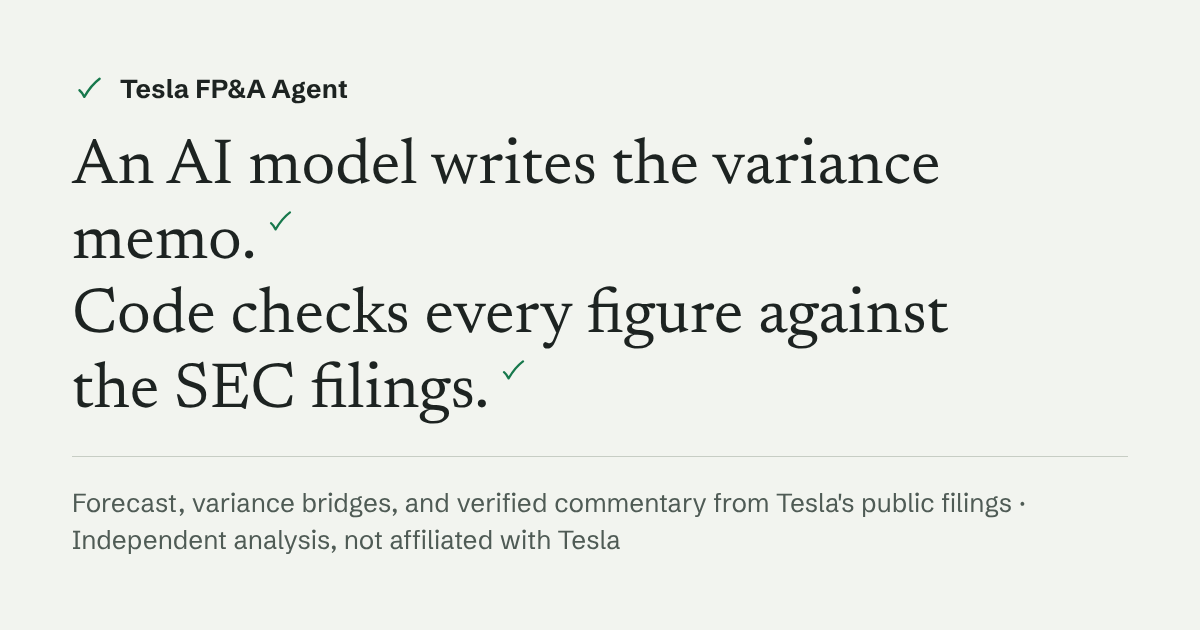
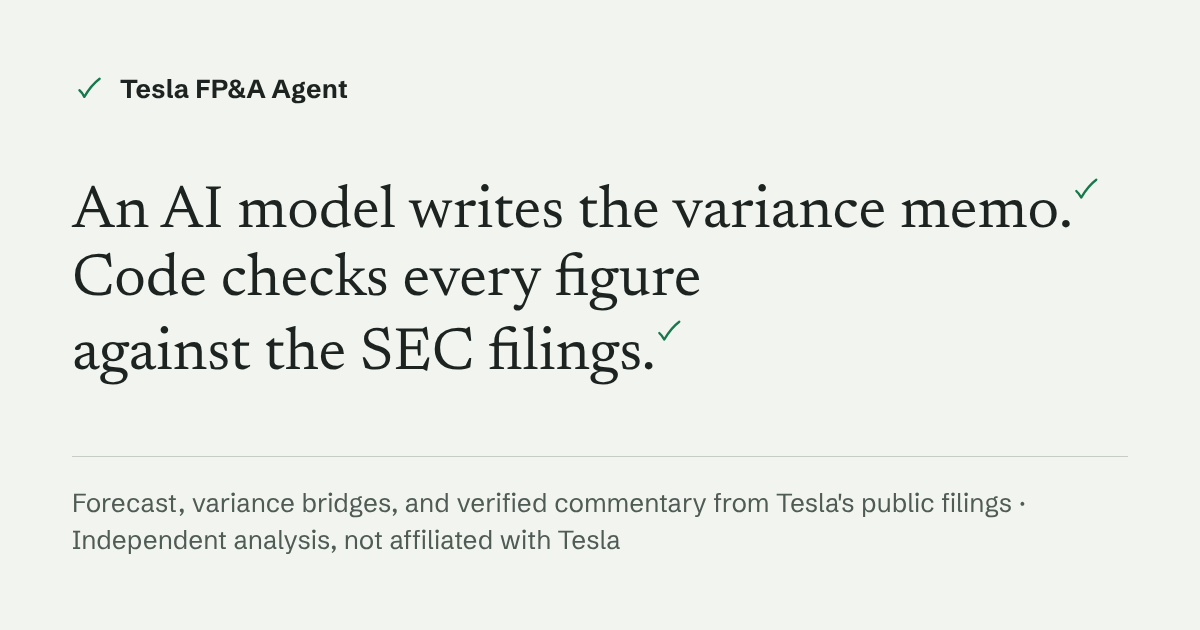
M7-T3: tighter card layout and accurate alt text
Claude-Session: https://claude.ai/code/session_01MPaYzZcF66N4BNMfTHPq9Q

Changed region(s): [[0.0617, 0.2111, 0.8942, 0.6937]]

diff --git a/site/index.html b/site/index.html
@@ -19,7 +19,7 @@
     <meta property="og:image:height" content="630" />
     <meta
       property="og:image:alt"
-      content="Light background. Large serif text reads: An AI model writes the variance memo, with a green check mark after memo. Code checks every figure against the SEC filings, with a green check mark after filings. Small caption: Tesla FP&A Agent."
+      content="Tesla FP&A Agent. Large serif text: An AI model writes the variance memo. Code checks every figure against the SEC filings. A green tick follows each sentence. Below: forecast, variance bridges, and verified commentary from Tesla's public filings; independent analysis, not affiliated with Tesla."
     />
     <meta name="twitter:card" content="summary_large_image" />
     <meta name="twitter:title" content="Tesla FP&A Agent" />
@@ -28,7 +28,7 @@
       content="An AI model writes the variance memo; code checks every figure against Tesla's SEC filings. Independent analysis, not affiliated with Tesla, Inc."
     />
     <meta name="twitter:image" content="https://kambourr.github.io/tesla-fpa-agent/og-image.png" />
-    <meta name="twitter:image:alt" content="Light background. Large serif text reads: An AI model writes the variance memo, with a green check mark after memo. Code checks every figure against the SEC filings, with a green check mark after filings. Small caption: Tesla FP&A Agent." />
+    <meta name="twitter:image:alt" content="Tesla FP&A Agent. Large serif text: An AI model writes the variance memo. Code checks every figure against the SEC filings. A green tick follows each sentence. Below: forecast, variance bridges, and verified commentary from Tesla's public filings; independent analysis, not affiliated with Tesla." />
     <title>Tesla FP&A Agent</title>
     <link rel="icon" type="image/svg+xml" href="%BASE_URL%favicon.svg" />
     <script>

diff --git a/site/og/og-image.html b/site/og/og-image.html
@@ -83,24 +83,24 @@
 
       .hero {
         margin: 0;
-        max-width: 900px;
         font-family: "Newsreader", Georgia, "Times New Roman", serif;
         font-weight: 400;
-        font-size: 64px;
-        line-height: 1.15;
+        font-size: 60px;
+        line-height: 1.14;
         color: var(--ink);
       }
 
       .hero span {
         display: block;
+        white-space: nowrap;
       }
 
       .hero .tick {
         display: inline-block;
-        width: 0.5em;
-        height: 0.5em;
-        margin-left: 0.12em;
-        vertical-align: 0.32em;
+        width: 0.56em;
+        height: 0.56em;
+        margin-left: -0.06em;
+        vertical-align: 0.34em;
       }
 
       .footer {
@@ -123,7 +123,8 @@
 
       <h1 class="hero">
         <span>An AI model writes the variance memo.<svg class="tick" viewBox="0 0 32 32" aria-hidden="true"><path d="M7 17.2c1.8 1.4 3.4 3.8 4.6 6.2C15.6 16.6 19.6 11.2 26 6.4" /></svg></span>
-        <span>Code checks every figure against the SEC filings.<svg class="tick" viewBox="0 0 32 32" aria-hidden="true"><path d="M7 17.2c1.8 1.4 3.4 3.8 4.6 6.2C15.6 16.6 19.6 11.2 26 6.4" /></svg></span>
+        <span>Code checks every figure</span>
+        <span>against the SEC filings.<svg class="tick" viewBox="0 0 32 32" aria-hidden="true"><path d="M7 17.2c1.8 1.4 3.4 3.8 4.6 6.2C15.6 16.6 19.6 11.2 26 6.4" /></svg></span>
       </h1>
 
       <p class="footer">Forecast, variance bridges, and verified commentary from Tesla's public filings &middot; Independent analysis, not affiliated with Tesla</p>
